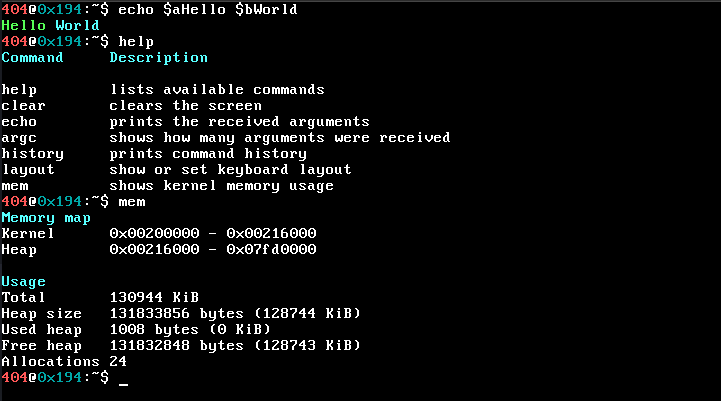
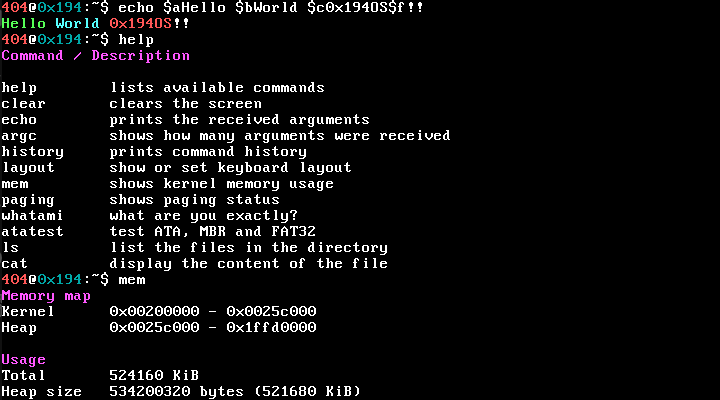
Updated README

Changed region(s): [[0.0, 0.21, 0.6417, 1.0], [0.0, 0.0, 1.0, 0.18]]

diff --git a/README.md b/README.md
@@ -1,9 +1,11 @@
 # 0x194OS
 
-0x194OS is a small bare-metal x86 operating system written in C.
-It boots in QEMU, gives me a shell to play with, and is where I keep building the usual low-level pieces one by one: keyboard input, command handling, screen output, memory, and scrollback.
+0x194 = 404. do the math.
 
-It is still very much a work in progress, but it already feels like a real system instead of a blank screen with ambition. The fun part is that every command, every color on the screen, and every bit of input handling is running on code from this repo.
+0x194OS is a bare-metal x86 operating system written in C.
+It boots in QEMU and on real hardware, gives you a shell to play with and is where the usual low-level pieces get built one by one.
+
+Every command, every color on the screen, every bit of input handling, and every file read from disk is running on code from this repo.
 
 ## Screenshots
 
@@ -19,33 +21,43 @@ Some shell commands in action:
 
 - Multiboot boot flow through GRUB
 - 32-bit protected mode kernel
-- VGA text output with simple inline color codes
-- PS/2 keyboard input
-- Portuguese and US keyboard layouts
-- Interactive shell with editable input
+- GDT and IDT
+- VGA text output with inline color codes (`$a`, `$b`, `$c`...)
+- PS/2 keyboard driver with Portuguese and US layouts
+- Shift and Caps Lock support
+- Interactive shell with editable input, cursor, and scrollback
 - Command history with timestamps
-- Screen scrollback
-- A first kernel heap with `kmalloc` / `kfree`
-- Basic memory inspection and heap test commands
+- Kernel heap with `kmalloc` / `kfree`
+- Basic paging
+- ATA PIO driver that detects and reads from disk
+- MBR partition table parser
+- FAT32 read-only driver that mounts, reads files and directories
+- VFS abstraction layer over FAT32
+- System info command (`whatami`), reads CPU, GPU, RAM, disk, date and time
+- Tab autocomplete for shell commands
 
 ## Commands
 
 ```text
 help          list available commands
 clear         clear the screen
-echo          print text, including color codes like $a, $b, $c and $f
-argc          show how many arguments were received
-history       show command history
+echo          print text with color codes
+history       show command history with timestamps
 layout        show or change keyboard layout
 mem           inspect kernel memory
 mem test      run a small heap test
 mem test -d   run the heap test with step-by-step output
+paging        inspect virtual memory
+whatami       show system information
+ls            list files in the root directory
+ls <path>     list files in a specific directory
+cat <path>    read and print a file
 ```
 
 ## Dependencies
 
 ```bash
-sudo apt install gcc nasm qemu-system-x86 grub-pc-bin xorriso make
+sudo apt install gcc qemu-system-x86 grub-pc-bin xorriso make
 ```
 
 ## Running
@@ -56,10 +68,19 @@ cd 0x194OS
 make run
 ```
 
+The disk image is created automatically on first run.
+
 ## Build ISO only
 
 ```bash
 make
 ```
+
+## Notes
+
+The ATA driver uses legacy PIO mode (ports 0x1F0-0x1F7).
+- **QEMU**: works out of the box
+- **VirtualBox**: set the storage controller to IDE (PIIX4), not SATA/AHCI
+- **Real hardware**: works if BIOS has IDE compatibility mode enabled
 
 Built by hand, one piece at a time.